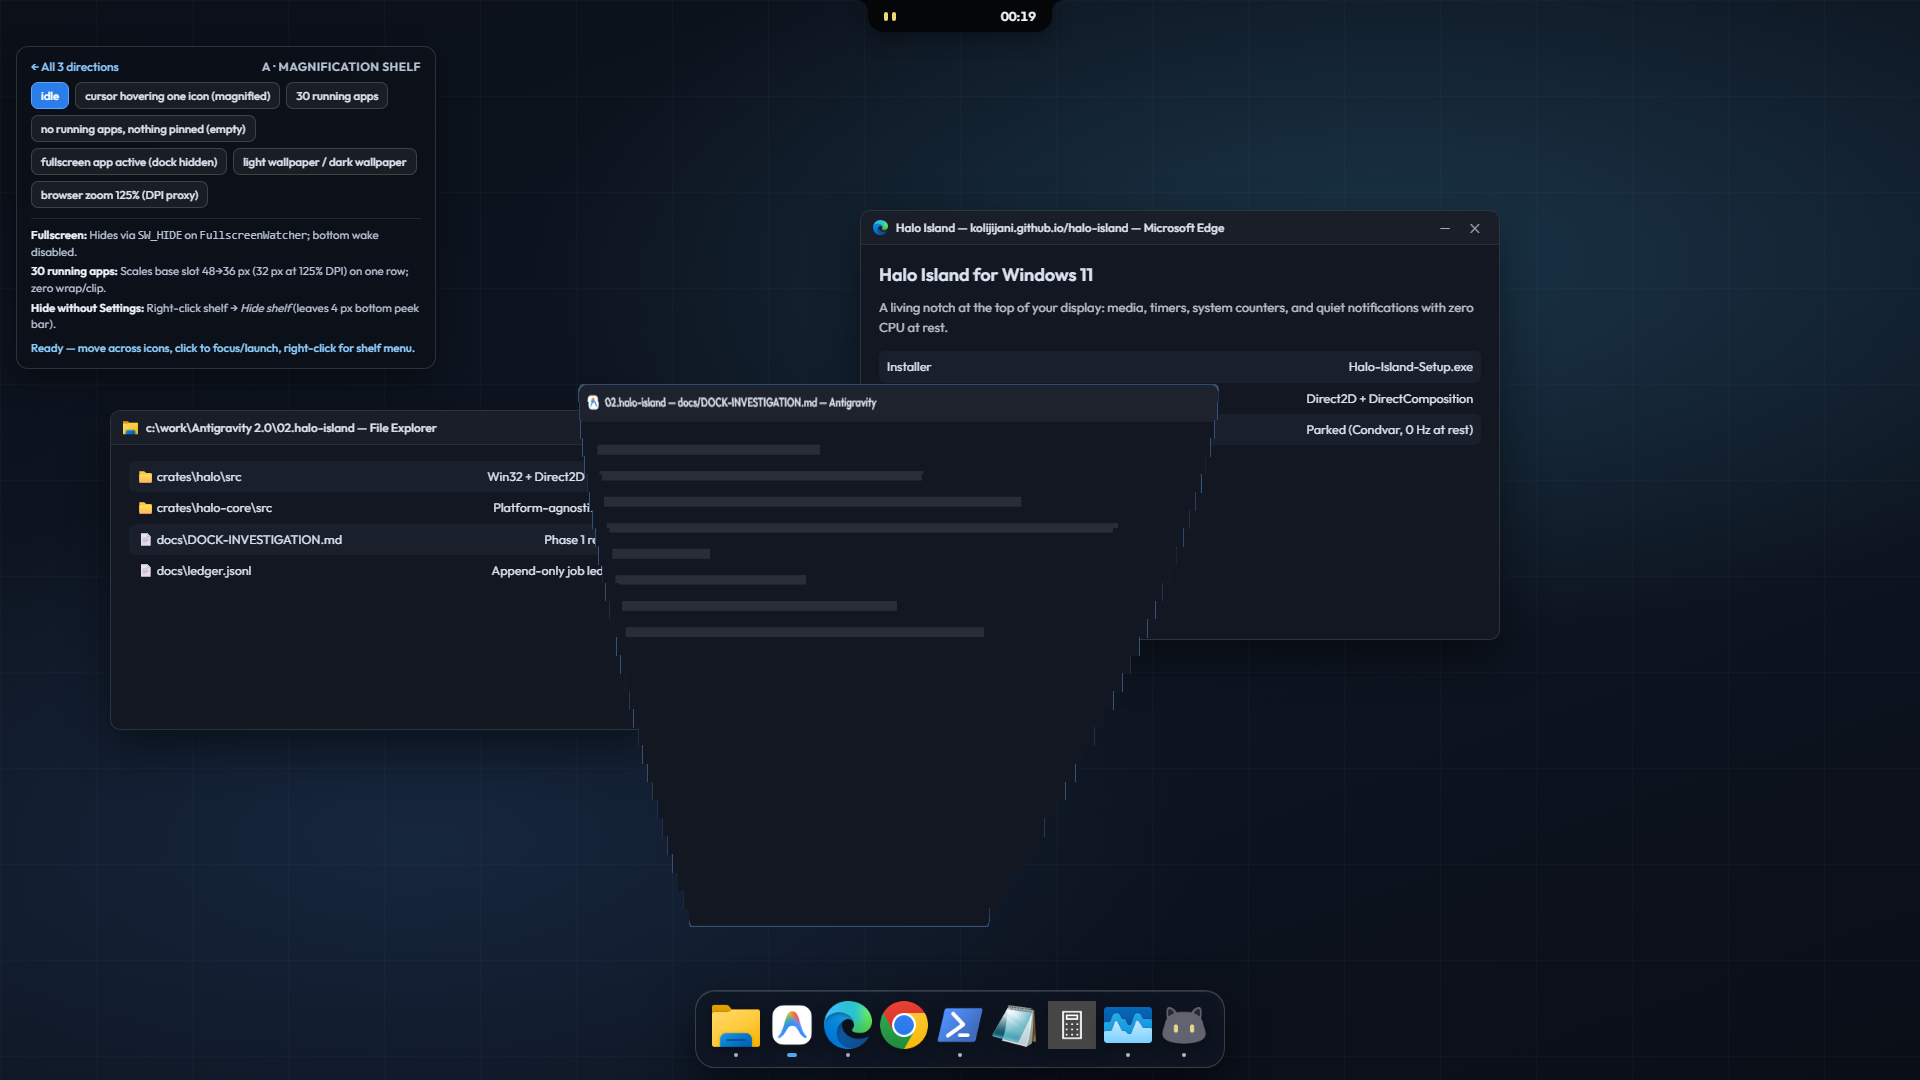
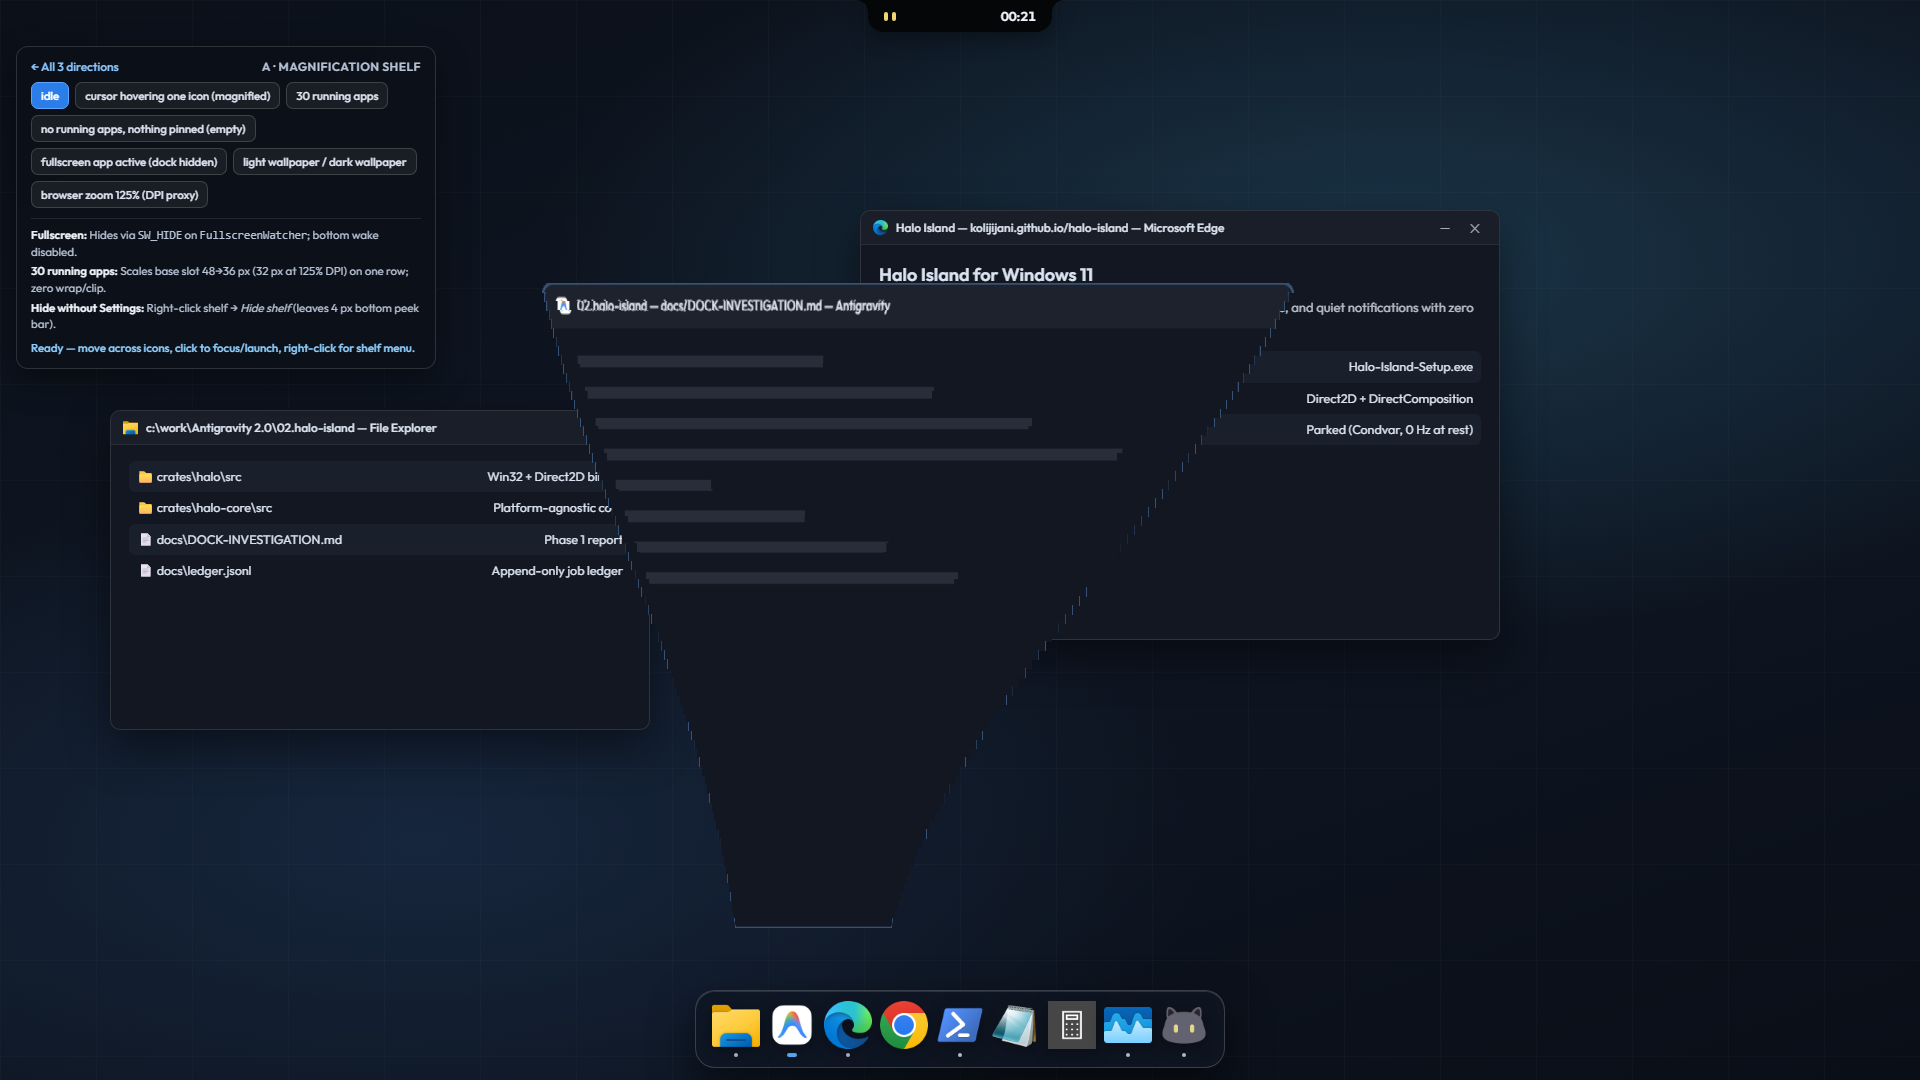
dock-phase-1-investigate-window-layer-an: smooth 72-slice S-curve Genie warp and dirty-rect clear

Changed region(s): [[0.2812, 0.275, 0.6562, 0.3972], [0.4688, 0.3361, 0.5, 0.3667]]

diff --git a/mockups/dock/a.html b/mockups/dock/a.html
@@ -220,6 +220,16 @@
 
   var genieCanvas = document.getElementById("genie-canvas");
   var gctx = genieCanvas.getContext("2d");
+  var lastDirty = null;
+
+  function clearGenieDirty() {
+    if (lastDirty) {
+      gctx.clearRect(lastDirty[0], lastDirty[1], lastDirty[2], lastDirty[3]);
+      lastDirty = null;
+    } else {
+      gctx.clearRect(0, 0, genieCanvas.width, genieCanvas.height);
+    }
+  }
 
   function buildWindowSnapshot(winEl, app) {
     var w = Math.max(200, Math.round(winEl.offsetWidth));
@@ -272,34 +282,47 @@
     if (genieCanvas.width !== pm.width || genieCanvas.height !== pm.height) {
       genieCanvas.width = pm.width;
       genieCanvas.height = pm.height;
+      lastDirty = null;
     }
-    gctx.clearRect(0, 0, genieCanvas.width, genieCanvas.height);
-    var slices = 30;
-    var ease = function (t) { return t < 0.5 ? 2 * t * t : 1 - Math.pow(-2 * t + 2, 2) / 2; };
-    var slidePhase = Math.max(0, Math.min(1, (p - 0.14) / 0.86));
-    var topY = sy + (ty - sy) * ease(slidePhase);
-    var botY = sy + sh + (ty - (sy + sh)) * ease(Math.min(1, p * 1.38));
-    var pinchStrength = ease(Math.min(1, p * 1.25));
+    clearGenieDirty();
 
+    var slices = 72;
+    var smooth = function (t) { t = Math.max(0, Math.min(1, t)); return t * t * (3 - 2 * t); };
+    // Continuous motion from frame 1 (no initial freeze):
+    // bottom edge reaches dock quickly while top glides down smoothly along the S-curve funnel
+    var pinchT = smooth(p / 0.58);
+    var botT = smooth(p / 0.65);
+    var topT = smooth(Math.max(0, (p - 0.06) / 0.94));
+    var topY = sy + (ty - sy) * (topT * topT * 0.72 + topT * 0.28);
+    var botY = (sy + sh) + (ty - (sy + sh)) * botT;
+    var totalH = Math.max(2, botY - topY);
+
+    var minX = 1e9, maxX = -1e9;
     gctx.save();
-    gctx.globalAlpha = Math.max(0, 1 - Math.max(0, p - 0.84) / 0.16);
+    gctx.imageSmoothingEnabled = true;
+    gctx.globalAlpha = p > 0.88 ? Math.max(0, (1 - p) / 0.12) : 1;
+
+    var srcSliceH = snap.height / slices;
     for (var i = 0; i < slices; i++) {
-      var u0 = i / slices;
-      var u1 = (i + 1) / slices;
-      var y0 = topY + (botY - topY) * u0;
-      var y1 = topY + (botY - topY) * u1;
-      var sliceH = Math.max(1, y1 - y0 + 0.6);
-      // macOS S-curve funnel: bottom pinches into icon width first, top follows smoothly
-      var curve = Math.pow(u0, 1.45) * pinchStrength + (1 - Math.pow(u0, 1.45)) * Math.pow(slidePhase, 1.6);
-      var l = sx + (tx - 16 - sx) * curve;
-      var r = (sx + sw) + (tx + 16 - (sx + sw)) * curve;
-      gctx.drawImage(snap, 0, u0 * snap.height, snap.width, snap.height / slices, l, y0, Math.max(4, r - l), sliceH);
+      var u = i / slices;
+      var y = topY + totalH * u;
+      var dy = (totalH / slices) + 0.85;
+      // Cosine S-curve funnel along the screen vertical span from sy..ty
+      var vy = Math.max(0, Math.min(1, (y - sy) / Math.max(1, ty - sy)));
+      var sCurve = 0.5 - 0.5 * Math.cos(Math.PI * vy);
+      var k = sCurve * pinchT;
+      var l = sx + (tx - 18 - sx) * k;
+      var r = (sx + sw) + (tx + 18 - (sx + sw)) * k;
+      if (l < minX) minX = l;
+      if (r > maxX) maxX = r;
+      gctx.drawImage(snap, 0, i * srcSliceH, snap.width, srcSliceH, l, y, Math.max(4, r - l), dy);
     }
     gctx.restore();
+    lastDirty = [Math.max(0, Math.floor(minX) - 4), Math.max(0, Math.floor(topY) - 4), Math.ceil(maxX - minX) + 8, Math.ceil(totalH) + 8];
   }
 
   function runGenie(slug, winEl, restore, fixedProgress) {
-    if (!winEl) return;
+    if (!winEl || state.genieBusy) return;
     var app = apps.find(function (a) { return a.slug === slug; });
     var sx = winEl.offsetLeft, sy = winEl.offsetTop, sw = winEl.offsetWidth, sh = winEl.offsetHeight;
     var snap = buildWindowSnapshot(winEl, app);
@@ -312,8 +335,9 @@
     }
 
     state.genieBusy = true;
+    winEl.style.transition = "none";
     winEl.style.visibility = "hidden";
-    var dur = 310;
+    var dur = 420;
     var t0 = performance.now();
     function step(now) {
       var raw = Math.min(1, (now - t0) / dur);
@@ -322,8 +346,7 @@
       if (raw < 1) {
         requestAnimationFrame(step);
       } else {
-        gctx.clearRect(0, 0, genieCanvas.width, genieCanvas.height);
-        winEl.style.visibility = "";
+        clearGenieDirty();
         if (restore) {
           winEl.classList.remove("minimized");
           if (app) desk.focusOrLaunchApp(app);
@@ -332,6 +355,8 @@
           winEl.classList.add("minimized");
           DockDesktop.toast("Genie minimized " + (app ? app.name : slug) + " into shelf — click icon to restore.");
         }
+        winEl.style.visibility = "";
+        requestAnimationFrame(function () { winEl.style.transition = ""; });
         state.genieBusy = false;
       }
     }
